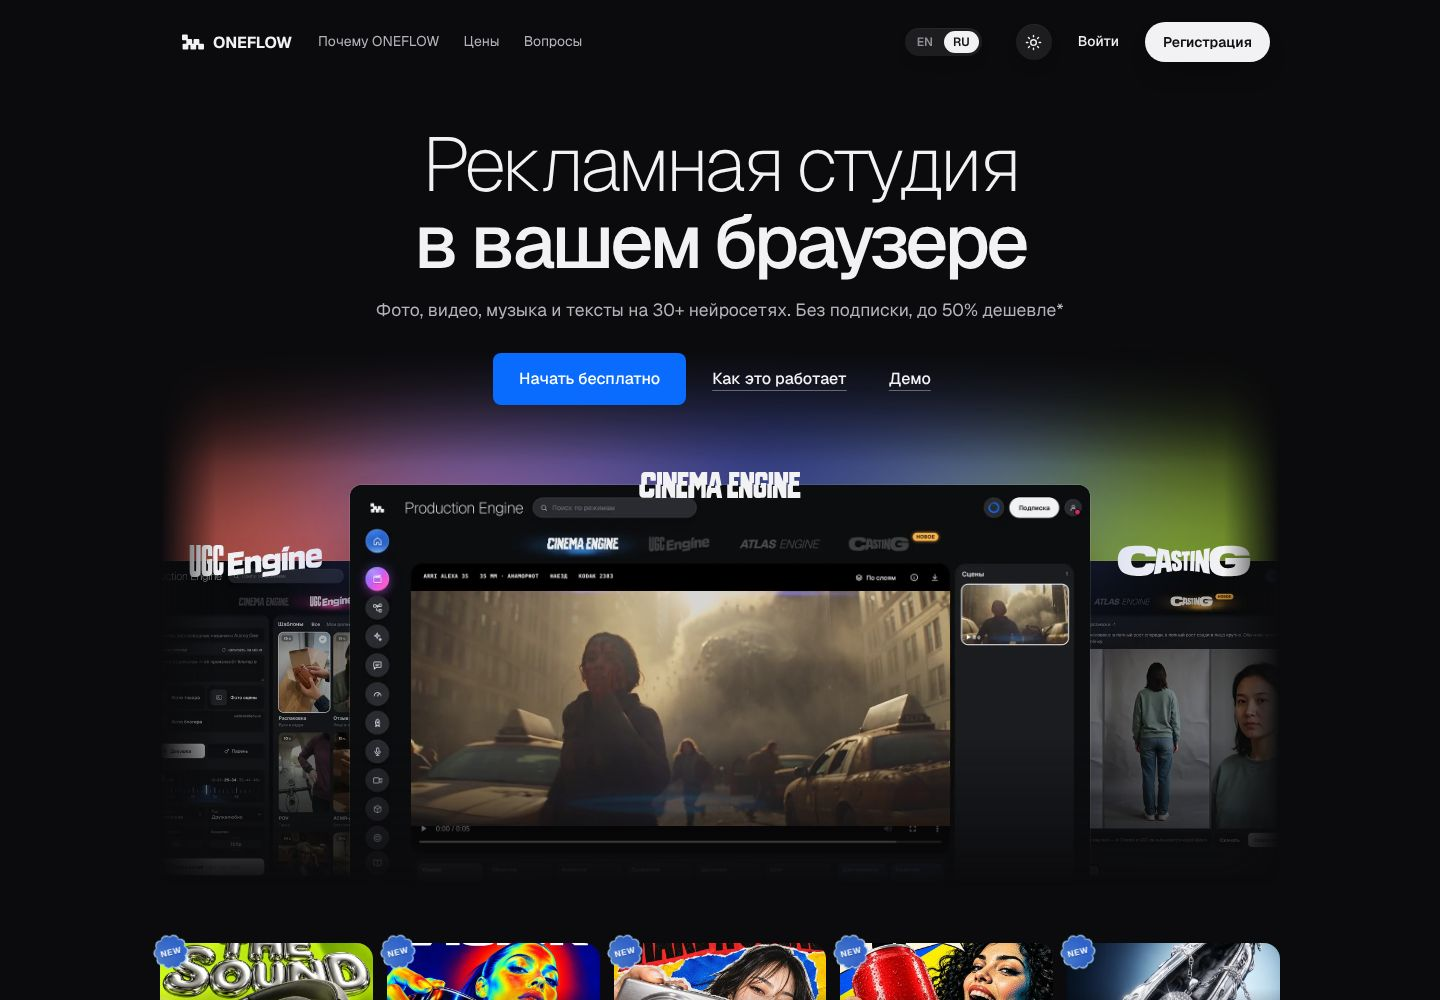
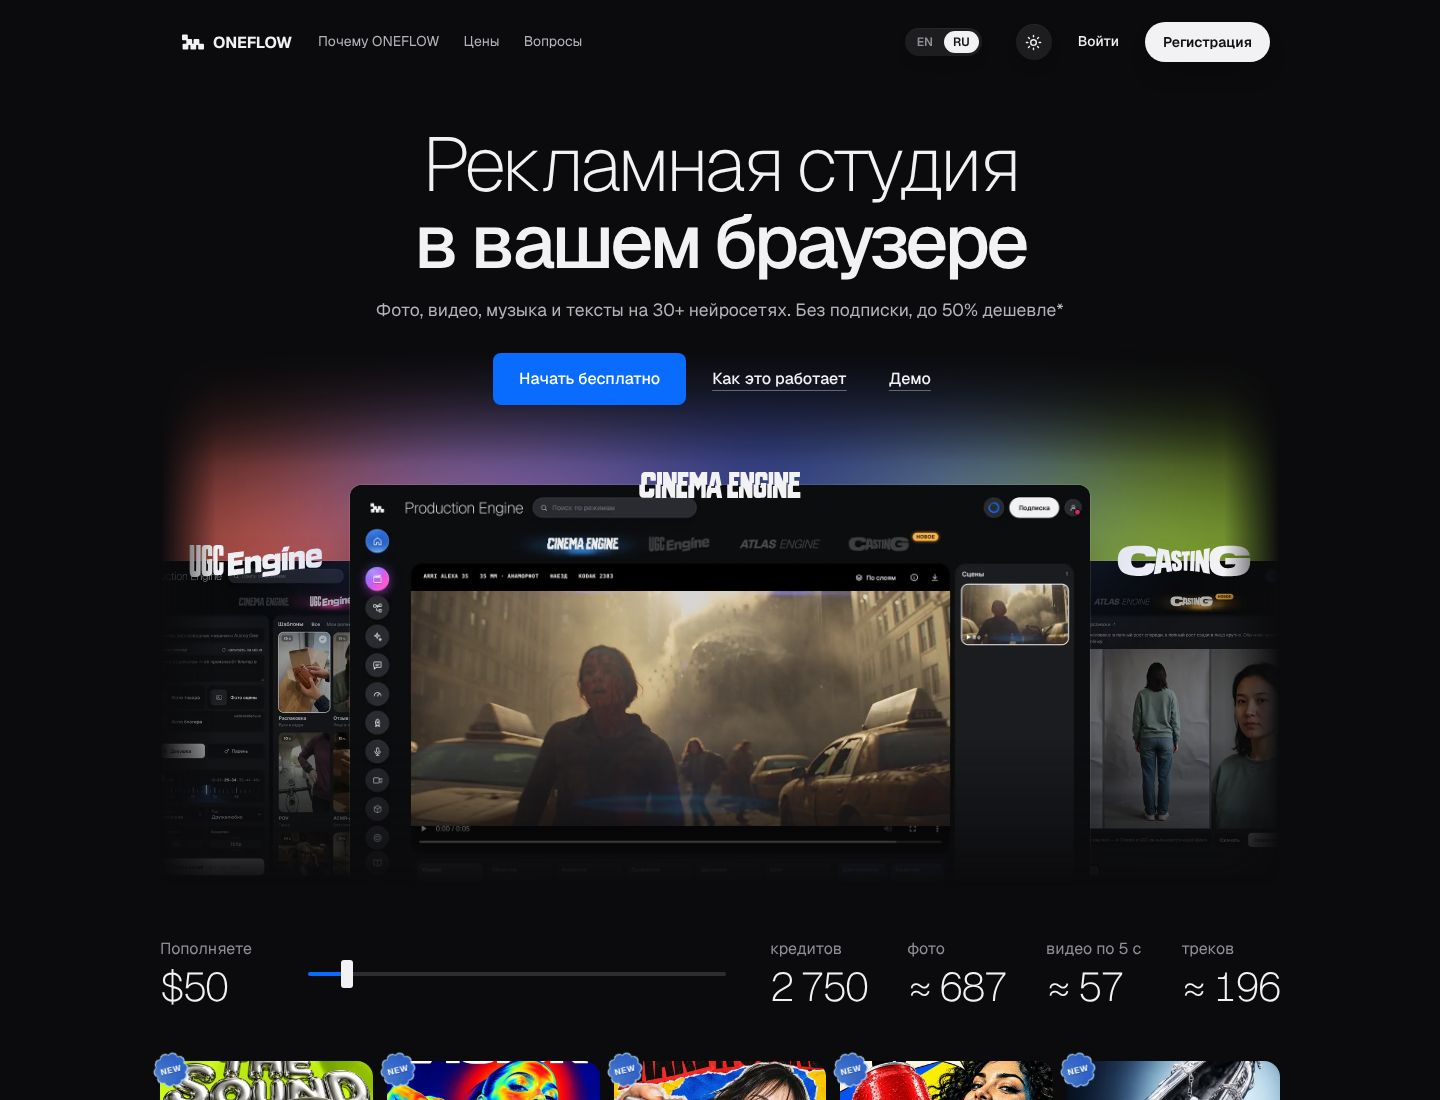
Hero draft: a thin top-up strip under the hero — a slider and what it buys
Claude-Session: https://claude.ai/code/session_018a2KjtpEKLUTJU5P3jAt1D

diff --git a/landing/hero_draft/topup_ru.html b/landing/hero_draft/topup_ru.html
@@ -1,0 +1,15 @@
+<section class="hs" id="topup"><div class="wrap hs-in"><div class="hs-pay"><label for="hsTop">Пополняете</label><b data-o="usd">$50</b></div><input id="hsTop" type="range" min="10" max="500" step="10" value="50" aria-label="Сумма пополнения в долларах"><div class="hs-out"><div><b data-o="credits">2 750</b><span>кредитов</span></div><div title="Nano Banana 2.1"><b data-o="photo">≈ 687</b><span>фото</span></div><div title="Seedance 2.5, 480p"><b data-o="video">≈ 57</b><span>видео по 5 с</span></div><div title="Suno V6"><b data-o="music">≈ 196</b><span>треков</span></div></div></div><script>
+(function () {
+  var root = document.getElementById('topup'); if (!root) return;
+  var COST = { photo: 4, video: 48, music: 14 }, GAP = ' ', r = root.querySelector('input');
+  function sp(n) { return String(n).replace(/\B(?=(\d{3})+(?!\d))/g, GAP); }
+  function draw() {
+    var usd = Number(r.value), credits = usd * (usd < 50 ? 50 : usd < 200 ? 55 : 60);
+    root.querySelector('[data-o=usd]').textContent = '$' + usd;
+    root.querySelector('[data-o=credits]').textContent = sp(credits);
+    for (var k in COST) root.querySelector('[data-o=' + k + ']').textContent = '≈ ' + sp(Math.floor(credits / COST[k]));
+    r.style.setProperty('--hspos', ((usd - 10) / 490 * 100) + '%');
+  }
+  r.addEventListener('input', draw); draw();
+})();
+</script></section>

diff --git a/landing/hero_draft/topup_en.html b/landing/hero_draft/topup_en.html
@@ -1,0 +1,15 @@
+<section class="hs" id="topup"><div class="wrap hs-in"><div class="hs-pay"><label for="hsTop">You top up</label><b data-o="usd">$50</b></div><input id="hsTop" type="range" min="10" max="500" step="10" value="50" aria-label="Top-up amount in dollars"><div class="hs-out"><div><b data-o="credits">2,750</b><span>credits</span></div><div title="Nano Banana 2.1"><b data-o="photo">≈ 687</b><span>images</span></div><div title="Seedance 2.5, 480p"><b data-o="video">≈ 57</b><span>5 s videos</span></div><div title="Suno V6"><b data-o="music">≈ 196</b><span>tracks</span></div></div></div><script>
+(function () {
+  var root = document.getElementById('topup'); if (!root) return;
+  var COST = { photo: 4, video: 48, music: 14 }, GAP = ',', r = root.querySelector('input');
+  function sp(n) { return String(n).replace(/\B(?=(\d{3})+(?!\d))/g, GAP); }
+  function draw() {
+    var usd = Number(r.value), credits = usd * (usd < 50 ? 50 : usd < 200 ? 55 : 60);
+    root.querySelector('[data-o=usd]').textContent = '$' + usd;
+    root.querySelector('[data-o=credits]').textContent = sp(credits);
+    for (var k in COST) root.querySelector('[data-o=' + k + ']').textContent = '≈ ' + sp(Math.floor(credits / COST[k]));
+    r.style.setProperty('--hspos', ((usd - 10) / 490 * 100) + '%');
+  }
+  r.addEventListener('input', draw); draw();
+})();
+</script></section>

diff --git a/landing/hero_draft/topup.css b/landing/hero_draft/topup.css
@@ -1,0 +1,12 @@
+/* the strip under the hero: a top-up slider and what it buys — one thin row, no card, no outlines */
+.hs { padding: 6px 0 46px; }
+.hs .hs-in { display: grid; grid-template-columns: auto minmax(220px, 1fr) auto; align-items: center; gap: 44px; }
+.hs .hs-pay label, .hs .hs-out span { display: block; font: 400 16px/1 var(--d); color: var(--muted); white-space: nowrap; }
+.hs .hs-pay b, .hs .hs-out b { display: block; margin-top: 10px; font: 200 40px/1 var(--d); letter-spacing: -.045em; color: var(--ink); white-space: nowrap; font-variant-numeric: tabular-nums; }
+.hs .hs-pay b { min-width: 104px; }
+.hs .hs-out { display: flex; gap: 40px; }
+.hs .hs-out > div { display: flex; flex-direction: column-reverse; }
+.hs .hs-out b { margin: 10px 0 0; }
+.hs input[type=range] { -webkit-appearance: none; appearance: none; width: 100%; height: 4px; margin: 0; border: 0; border-radius: 2px; background: linear-gradient(90deg, #0a6cff var(--hspos, 8.16%), rgba(255,255,255,.14) var(--hspos, 8.16%)); cursor: pointer; }
+.hs input[type=range]::-webkit-slider-thumb { -webkit-appearance: none; width: 12px; height: 28px; border-radius: 3px; background: #f2f2f4; }
+.hs input[type=range]::-moz-range-thumb { width: 12px; height: 28px; border: 0; border-radius: 3px; background: #f2f2f4; }

diff --git a/landing/hero_draft/README.md b/landing/hero_draft/README.md
@@ -26,6 +26,20 @@
 полоса из трёх цветов, которая нигде не обрезается — блок окон заходит вверх под кнопки и гаснет по всем
 краям; пятна медленно плывут и меняют оттенок (при «уменьшить движение» стоят на месте).
 
+## Полоса с ползунком под hero (20.11.2026)
+
+`topup_ru.html`, `topup_en.html`, `topup.css` — узкая секция сразу под hero, над баннерами новинок: сумма
+пополнения $10–500 и сколько это кредитов, фото, видео и треков. Без карточки и обводок.
+
+| Что | Модель | Цена провайдера | Кредитов |
+| --- | --- | --- | --- |
+| Кредитов за $1 | — | 50 / 55 / 60 при $10–49 / $50–199 / $200–500 (раздел цен) | — |
+| Фото | Nano Banana 2.1, 1K | $0,04 (Atlas) | 4 |
+| Видео | Seedance 2.5, 5 с, 480p | $0,1348 за секунду (Atlas, 19.11.2026), считается от 70% | 48 |
+| Трек | Suno V6 | $0,132 за запрос, два варианта | 14 |
+
+Модели названы только во всплывающих подсказках. Проверено на $10, $40, $50, $190, $200, $500 в обеих версиях.
+
 ## Не решено
 
 - Телефон, светлая тема и нынешнее фоновое видео в этом макете не сделаны.
